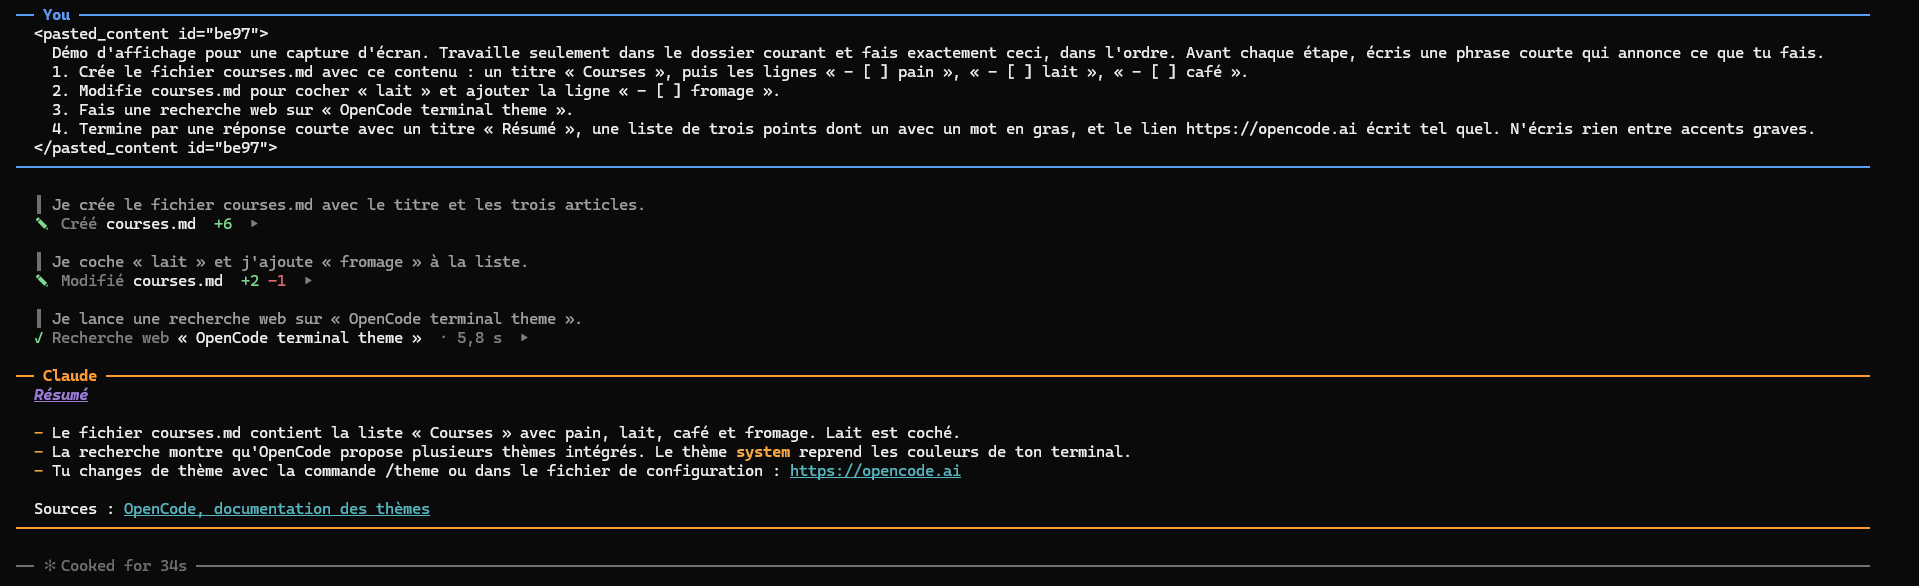
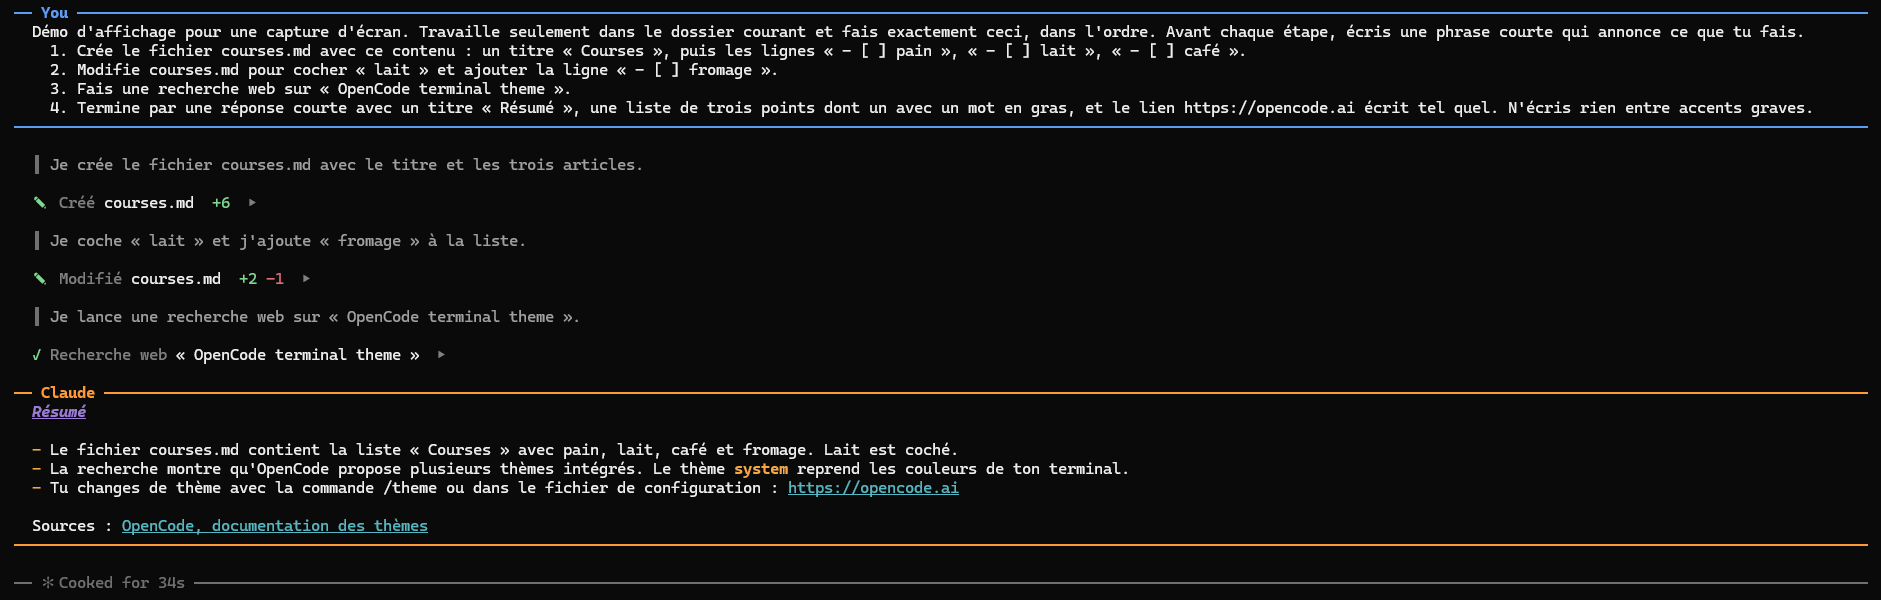
ui-friendly 0.2.3, readable-layout-oc 0.2.2-oc.3, nouvelle capture après
- ui-friendly : une ligne vide au-dessus de chaque ligne d'outil, comme
  les lignes « Read 1 file » de Claude Code
- readable-layout-oc : un texte collé s'affiche sans les balises
  <pasted_content> que Claude Code ajoute pour le modèle (+1 test)
- Capture « après » refaite avec ces deux changements

diff --git a/plugins/readable-layout-oc/hooks/register.tsx b/plugins/readable-layout-oc/hooks/register.tsx
@@ -6,6 +6,11 @@ const NOTE_BAR_ROWS = 12 // plus que les lignes d'une note courte, même dans un
 
 const isShortNote = (text: string): boolean => !text.includes('\n') && text.length <= SHORT_NOTE_CHARS
 
+// Patch UI Friendly : Claude Code entoure un texte collé de balises <pasted_content id="…"> pour le modèle ;
+// son propre affichage les cache, on fait pareil
+const PASTE_MARK = /<\/?pasted_content(?:\s+id="[^"]*")?>[ \t]*\r?\n?/g
+const withoutPasteMarks = (text: string): string => text.replace(PASTE_MARK, '')
+
 const ruleWidth = (columns: number | undefined): number => Math.max(24, (columns ?? 80) - 2)
 
 const fmtDuration = (ms: number): string => {
@@ -21,7 +26,7 @@ export const register: Register = (on, options) => {
   on('ui.render', { component: 'UserMessage' }, ($, e, next) => {
     if (e.surface !== 'terminal' || e.props.origin.kind !== 'composer' || !e.props.text.trim()) return next(e)
     const { Box, Text } = $.ui.resolve(e)
-    return framed(Box, Text, 'You', 'suggestion', e.viewport?.columns, <Text>{e.props.text.trim()}</Text>)
+    return framed(Box, Text, 'You', 'suggestion', e.viewport?.columns, <Text>{withoutPasteMarks(e.props.text).trim()}</Text>)
   })
 
   on('ui.render', { component: 'AssistantMessage' }, ($, e, next) => {

diff --git a/plugins/readable-layout-oc/tests/readable-layout.test.tsx b/plugins/readable-layout-oc/tests/readable-layout.test.tsx
@@ -52,6 +52,13 @@ describe('your messages', () => {
     expect(await ui.find(fromEngine)).toBeUndefined()
   })
 
+  test('pasted text shows without the marks Claude Code puts around it for the model', async ($, on) => {
+    engineBeneath(on)
+    const ui = await mountPrompt($, 'terminal', '<pasted_content id="be97">\n  Make a shopping list\n</pasted_content id="be97">')
+    const body = (await ui.findAll({ type: 'Text' })).find(t => t.text.includes('shopping'))
+    expect(body?.text).toBe('Make a shopping list')
+  })
+
   test('leave notifications, other senders and other surfaces to the engine', async ($, on) => {
     engineBeneath(on)
     const mounts = [

diff --git a/plugins/ui-friendly/hooks/register.tsx b/plugins/ui-friendly/hooks/register.tsx
@@ -204,8 +204,9 @@ export const register: Register = on => {
     // La durée n'apparaît que pour un outil lent (une modification prend toujours 0,x s).
     // Seule la flèche est cliquable : Claude Code inverse toujours un Button sous la souris,
     // et une ligne entière inversée au survol dérange (retour de Mehdi, 2026-10-29).
+    // La ligne vide au-dessus reprend le rythme des lignes d'outil de Claude Code (« Read 1 file »…).
     const row = (
-      <Box paddingLeft={2}>
+      <Box paddingLeft={2} marginTop={1}>
         {icon}
         <Text> </Text>
         <Text dimColor>{s.verb}</Text>

diff --git a/plugins/readable-layout-oc/README.md b/plugins/readable-layout-oc/README.md
@@ -21,6 +21,7 @@ Ce que change cette copie :
 | Les puces et numéros de liste | couleur du texte | couleur `warning` du thème (orange avec le thème OpenCode) |
 | Les liens | couleur du texte | soulignés, dans la couleur `planMode` du thème (cyan avec le thème OpenCode) ; une adresse écrite telle quelle (`http://…`) devient aussi un lien |
 | Le texte des notes | gris « dim » du terminal | un gris un peu plus clair, la couleur `inactiveShimmer` du thème |
+| Un texte collé dans votre message | affiché avec les balises `<pasted_content>` | affiché sans ces balises, comme dans Claude Code de base |
 | Les paragraphes dessinés par le mod | seulement ceux qui contiennent du gras | tous, pour que titres et puces soient colorés partout |
 
 Les couleurs viennent de votre thème Claude Code : elles suivent le thème choisi. Le rendu est le meilleur avec le thème **OpenCode** fourni par [UI Friendly](../ui-friendly).

diff --git a/README.md b/README.md
@@ -25,7 +25,7 @@ La même conversation, affichée deux fois : Claude crée une liste de courses, 
 | Les notes de Claude (« Je crée le fichier… ») | même point blanc que tout le reste | gris discret, derrière une barre `┃` |
 | La création du fichier | tout le contenu du fichier, 7 lignes | `✎ Créé courses.md  +6  ▸` |
 | La modification | le diff complet, 9 lignes | `✎ Modifié courses.md  +2 −1  ▸`, le diff à un clic sur `▸` |
-| La recherche web | deux lignes | une ligne, avec sa durée |
+| La recherche web | deux lignes | une ligne |
 | La réponse | texte après un point blanc | encadrée **Claude**, titre violet, tirets orange, lien cyan |
 | La fin du tour | rien | un trait avec la durée du tour |
 
